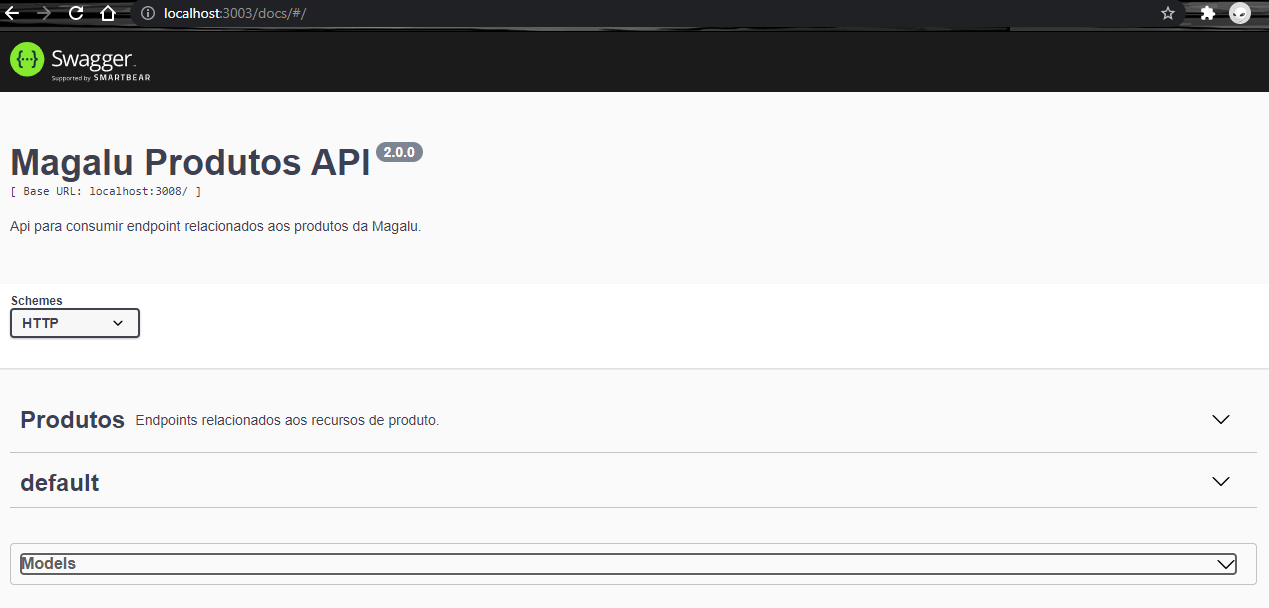
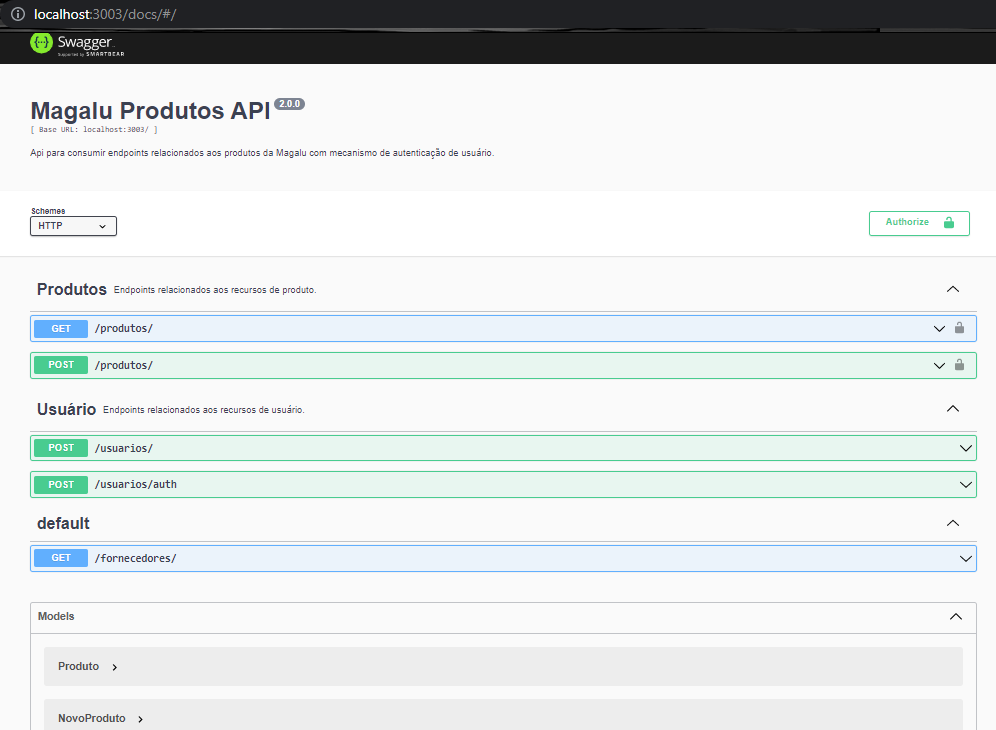
Atualizando o README

Changed region(s): [[0.0, 0.0, 1.0, 0.875], [0.0, 0.9062, 0.996, 1.0], [0.8715, 0.2812, 0.9649, 0.3438]]

diff --git a/src/api/usuarios.js b/src/api/usuarios.js
@@ -7,6 +7,19 @@ const JWTSecret = 'afdgdherarDFvtsdrterdSdgtdfzgfdzgfzdsf'
 
 router.post('/', 
     async (req, res) => {
+
+    /*
+        #swagger.tags = ['Usuário']
+        #swagger.description = 'Endpoint para cadastro do cliente.'
+
+        #swagger.responses[200] = {
+        description: 'Usuário cadastrado'
+    }
+        #swagger.responses[400] = {
+        description: 'Houve algum problema na requisição.'
+        }
+    */
+        
     const { nome, email, senha } = req.body
     try {
         await usuario.create({ nome, email, senha })
@@ -21,6 +34,19 @@ router.post('/auth',
     .not().isEmpty()    // não está funcionando
     .withMessage('Campo email é obrigatório!'),
     async (req, res) => {
+
+    /*
+        #swagger.tags = ['Usuário']
+        #swagger.description = 'Endpoint para login do cliente, disponibilizando o token de acesso aos recursos de produto.'
+
+        #swagger.responses[200] = {
+        description: 'Usuário logado'
+    }
+        #swagger.responses[400] = {
+        description: 'Houve algum problema na requisição.'
+        }
+    */
+
     const errors = validationResult(req)
     if (!errors.isEmpty()) {
         return res.status(400).json({ errors: errors.array() })

diff --git a/src/swagger.js b/src/swagger.js
@@ -7,7 +7,7 @@ const doc = {
     info:{
         version: '2.0.0',
         title: "Magalu Produtos API",
-        description: "Api para consumir endpoint relacionados aos produtos da Magalu.",
+        description: "Api para consumir endpoints relacionados aos produtos da Magalu com mecanismo de autenticação de usuário.",
 
     },
     host: "localhost:3003",
@@ -19,6 +19,10 @@ const doc = {
         {
         "name": "Produtos",
         "description": "Endpoints relacionados aos recursos de produto."
+        },
+        {
+        "name": "Usuário",
+        "description": "Endpoints relacionados aos recursos de usuário."    
         }
     ],
     definitions: {

diff --git a/src/api/fornecedores.js b/src/api/fornecedores.js
@@ -2,6 +2,19 @@ const express = require('express')
 const router = express.Router()
 
 router.get('/', (req, res) => {
+
+    /*
+        #swagger.tags = []
+        #swagger.description = 'Endpoint não trabalhado.'
+
+        #swagger.responses[200] = {
+        description: 'Lista encontrada'
+    }
+        #swagger.responses[400] = {
+        description: 'Houve algum problema na requisição.'
+        }
+    */
+
     res.send('Segue a lista de fornecedores:')
 })
 

diff --git a/README.md b/README.md
@@ -4,7 +4,7 @@
   <h3 align="center">Magalu Produtos API</h3>
 
   <p align="center">
-    Rest API para endpoints do sistema de produtos.
+    Rest API para endpoints de um sistema de produtos com mecanismo de autenticação do cliente.
     <br />
   </p>
 </p>
@@ -44,6 +44,8 @@ Essa é uma API para endpoints de acesso a informações do produto.
 
 O projeto tem uma estrutura de acesso a endpoints que podem ser usados por uma aplicação frontend.
 
+Também possui um sistema de autenticação do cliente.
+
 
 ## Criado com...
 
@@ -77,9 +79,10 @@ Siga as instruções para executar a API:
 <!-- USAGE EXAMPLES -->
 ## Uso
 
-Voce tem acesso aos seguintes endpoints de produto:
+Voce tem acesso aos seguintes endpoints:
 
 [![Swagger de produto][swagger-endpoint-produto]]
+[![Swagger de usuario][swagger-endpoint-usuario]]
 
 <!-- CONTACT -->
 ## Contato
@@ -95,3 +98,4 @@ Projeto: [https://github.com/LayaneLino/RestAPIMagalu](https://github.com/Layane
 <!-- MARKDOWN LINKS & IMAGES -->
 [swagger-completo]: images/swagger-completo.png
 [swagger-endpoint-produto]: images/swagger-endpoint-produto.png
+[swagger-endpoint-usuario]: images/swagger-endpoint-usuario.png
